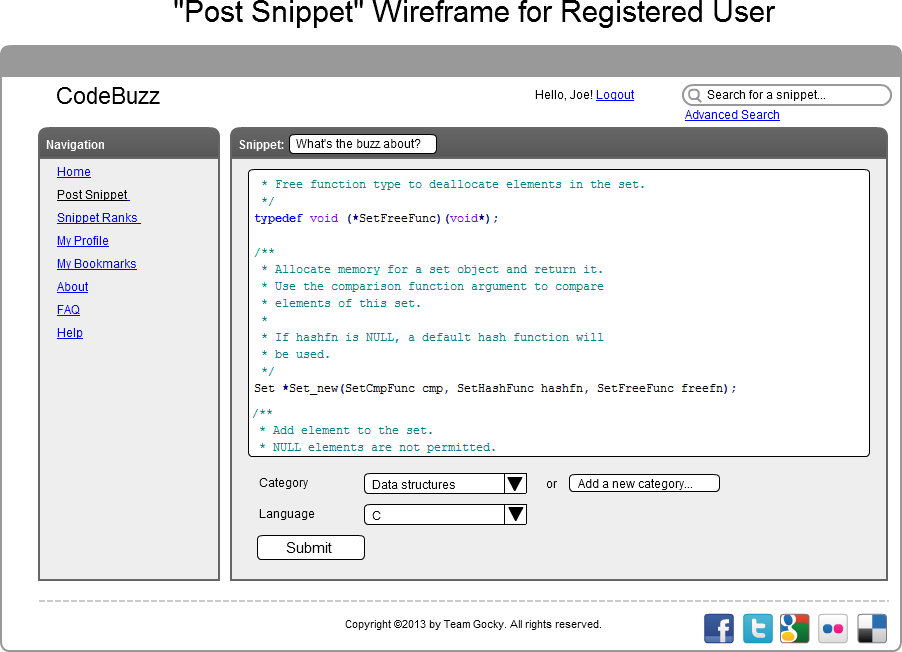
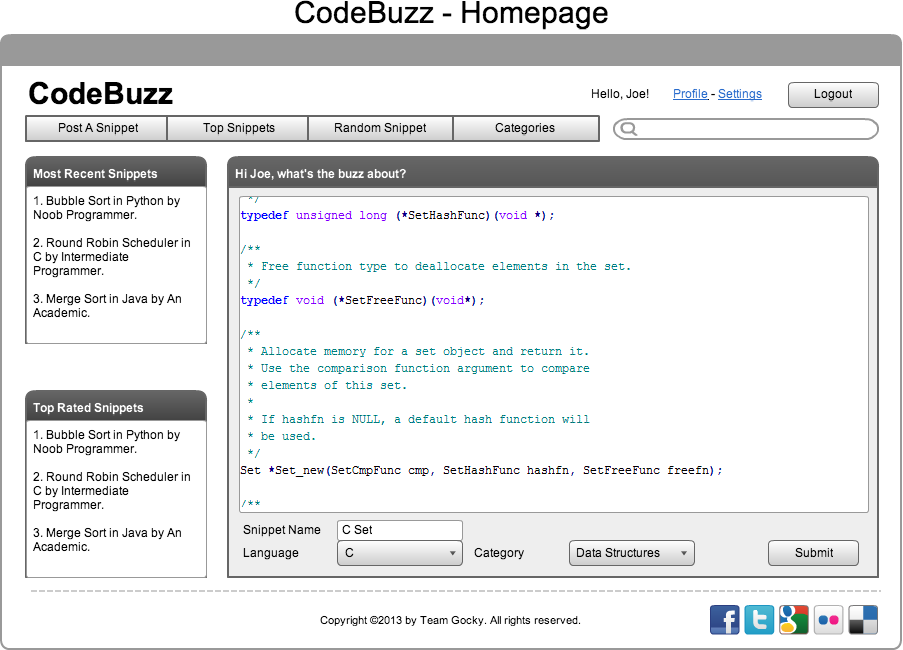
Update images and add new wireframe

Changed region(s): [[0.0, 0.0, 1.0, 1.0], [0.031, 0.5231, 0.0621, 0.5538]]

diff --git a/docs/ideas.tex b/docs/ideas.tex
@@ -95,6 +95,12 @@ Figure \ref{fig:joe} shows a logged in user posting a snippet. The user's
 name is shown and there are also links to his profile, bookmarks, and other
 user-specific data.
 
+Figure \ref{fig:LoggedInViewJane} shows a user called Jane logged in and viewing
+a snippet posted by an anonymous user. There is rating and comments section
+with a text box for Jane to add in her own comment if she wishes. The page
+scrolls as the comments are not necessarily immediately available above the
+fold.
+
 \begin{figure}
 \includegraphics[width=\textwidth]{../imgs/homepageWireFrameGRHorz.png}
 \caption{Anonymous snippet being posted.}
@@ -105,6 +111,12 @@ user-specific data.
 \includegraphics[width=\textwidth]{../imgs/CCodeSnippetHorz.png}
 \caption{Joe's home screen with his code snippet}
 \label{fig:joe}
+\end{figure}
+
+\begin{figure}
+\includegraphics[width=\textwidth]{../imgs/LoggedInViewSnippetHorz.png}
+\caption{Jane viewing a posted snippet.}
+\label{fig:LoggedInViewJane}
 \end{figure}
 
 \subsection{Design Goals}
@@ -292,33 +304,25 @@ errors.
 \begin{table}[h]
 \begin{tabular}{*{6}{|L}|}
 \hline
-I want to... & Overall Priority & Barry & Bill
-& Jane\\
+I want to... & Overall Priority & Barry & Bill & Jane\\
 \hline
-Search solution code & \highPrio & \highPrio & \medPrio 
-& \lowPrio \\
+Search solution code & \highPrio & \highPrio & \medPrio & \lowPrio \\
 \hline
-Download code snippet & \highPrio & \highPrio & \medPrio
-& \lowPrio \\
+Download code snippet & \highPrio & \highPrio & \medPrio& \lowPrio \\
 \hline
-Contribute quality code & \highPrio & \lowPrio & \highPrio & 
-\highPrio \\
+Contribute quality code & \highPrio & \lowPrio & \highPrio & \highPrio \\
 \hline
 Rate a code snippet & \highPrio & \lowPrio & \highPrio & \medPrio \\
 \hline
-Comment on a snippet & \highPrio & \medPrio & \highPrio & 
-\lowPrio \\
+Comment on a snippet & \highPrio & \medPrio & \highPrio & \lowPrio \\
 \hline
 Bookmark a snippet & \medPrio & \medPrio & \highPrio & \medPrio \\
 \hline
-Submit code for review & \medPrio & \highPrio & \vLowPrio &
-\vLowPrio \\
+Submit code for review & \medPrio & \highPrio & \vLowPrio &\vLowPrio \\
 \hline
-Share code externally & \lowPrio & \medPrio & \vLowPrio &
-\vLowPrio \\
+Share code externally & \lowPrio & \medPrio & \vLowPrio &\vLowPrio \\
 \hline
-View highly rated code & \medPrio & \highPrio & \medPrio &
-\lowPrio \\
+View highly rated code & \medPrio & \highPrio & \medPrio &\lowPrio \\
 \hline
 View code hit count & \lowPrio & \lowPrio & \vLowPrio & \vLowPrio \\
 \hline
